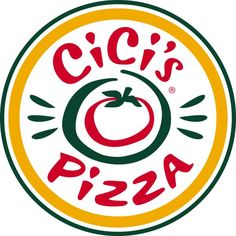
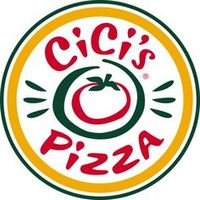
resize images, mini_magick

diff --git a/app/uploaders/image_uploader.rb b/app/uploaders/image_uploader.rb
@@ -4,7 +4,7 @@ class ImageUploader < CarrierWave::Uploader::Base
 
   # Include RMagick or MiniMagick support:
   # include CarrierWave::RMagick
-  # include CarrierWave::MiniMagick
+  include CarrierWave::MiniMagick
 
   # Choose what kind of storage to use for this uploader:
   # storage :file
@@ -29,7 +29,7 @@ class ImageUploader < CarrierWave::Uploader::Base
   # end
 
   # Process files as they are uploaded:
-  # process :scale => [200, 300]
+  process :resize_to_fit => [200, 300]
   #
   # def scale(width, height)
   #   # do something
